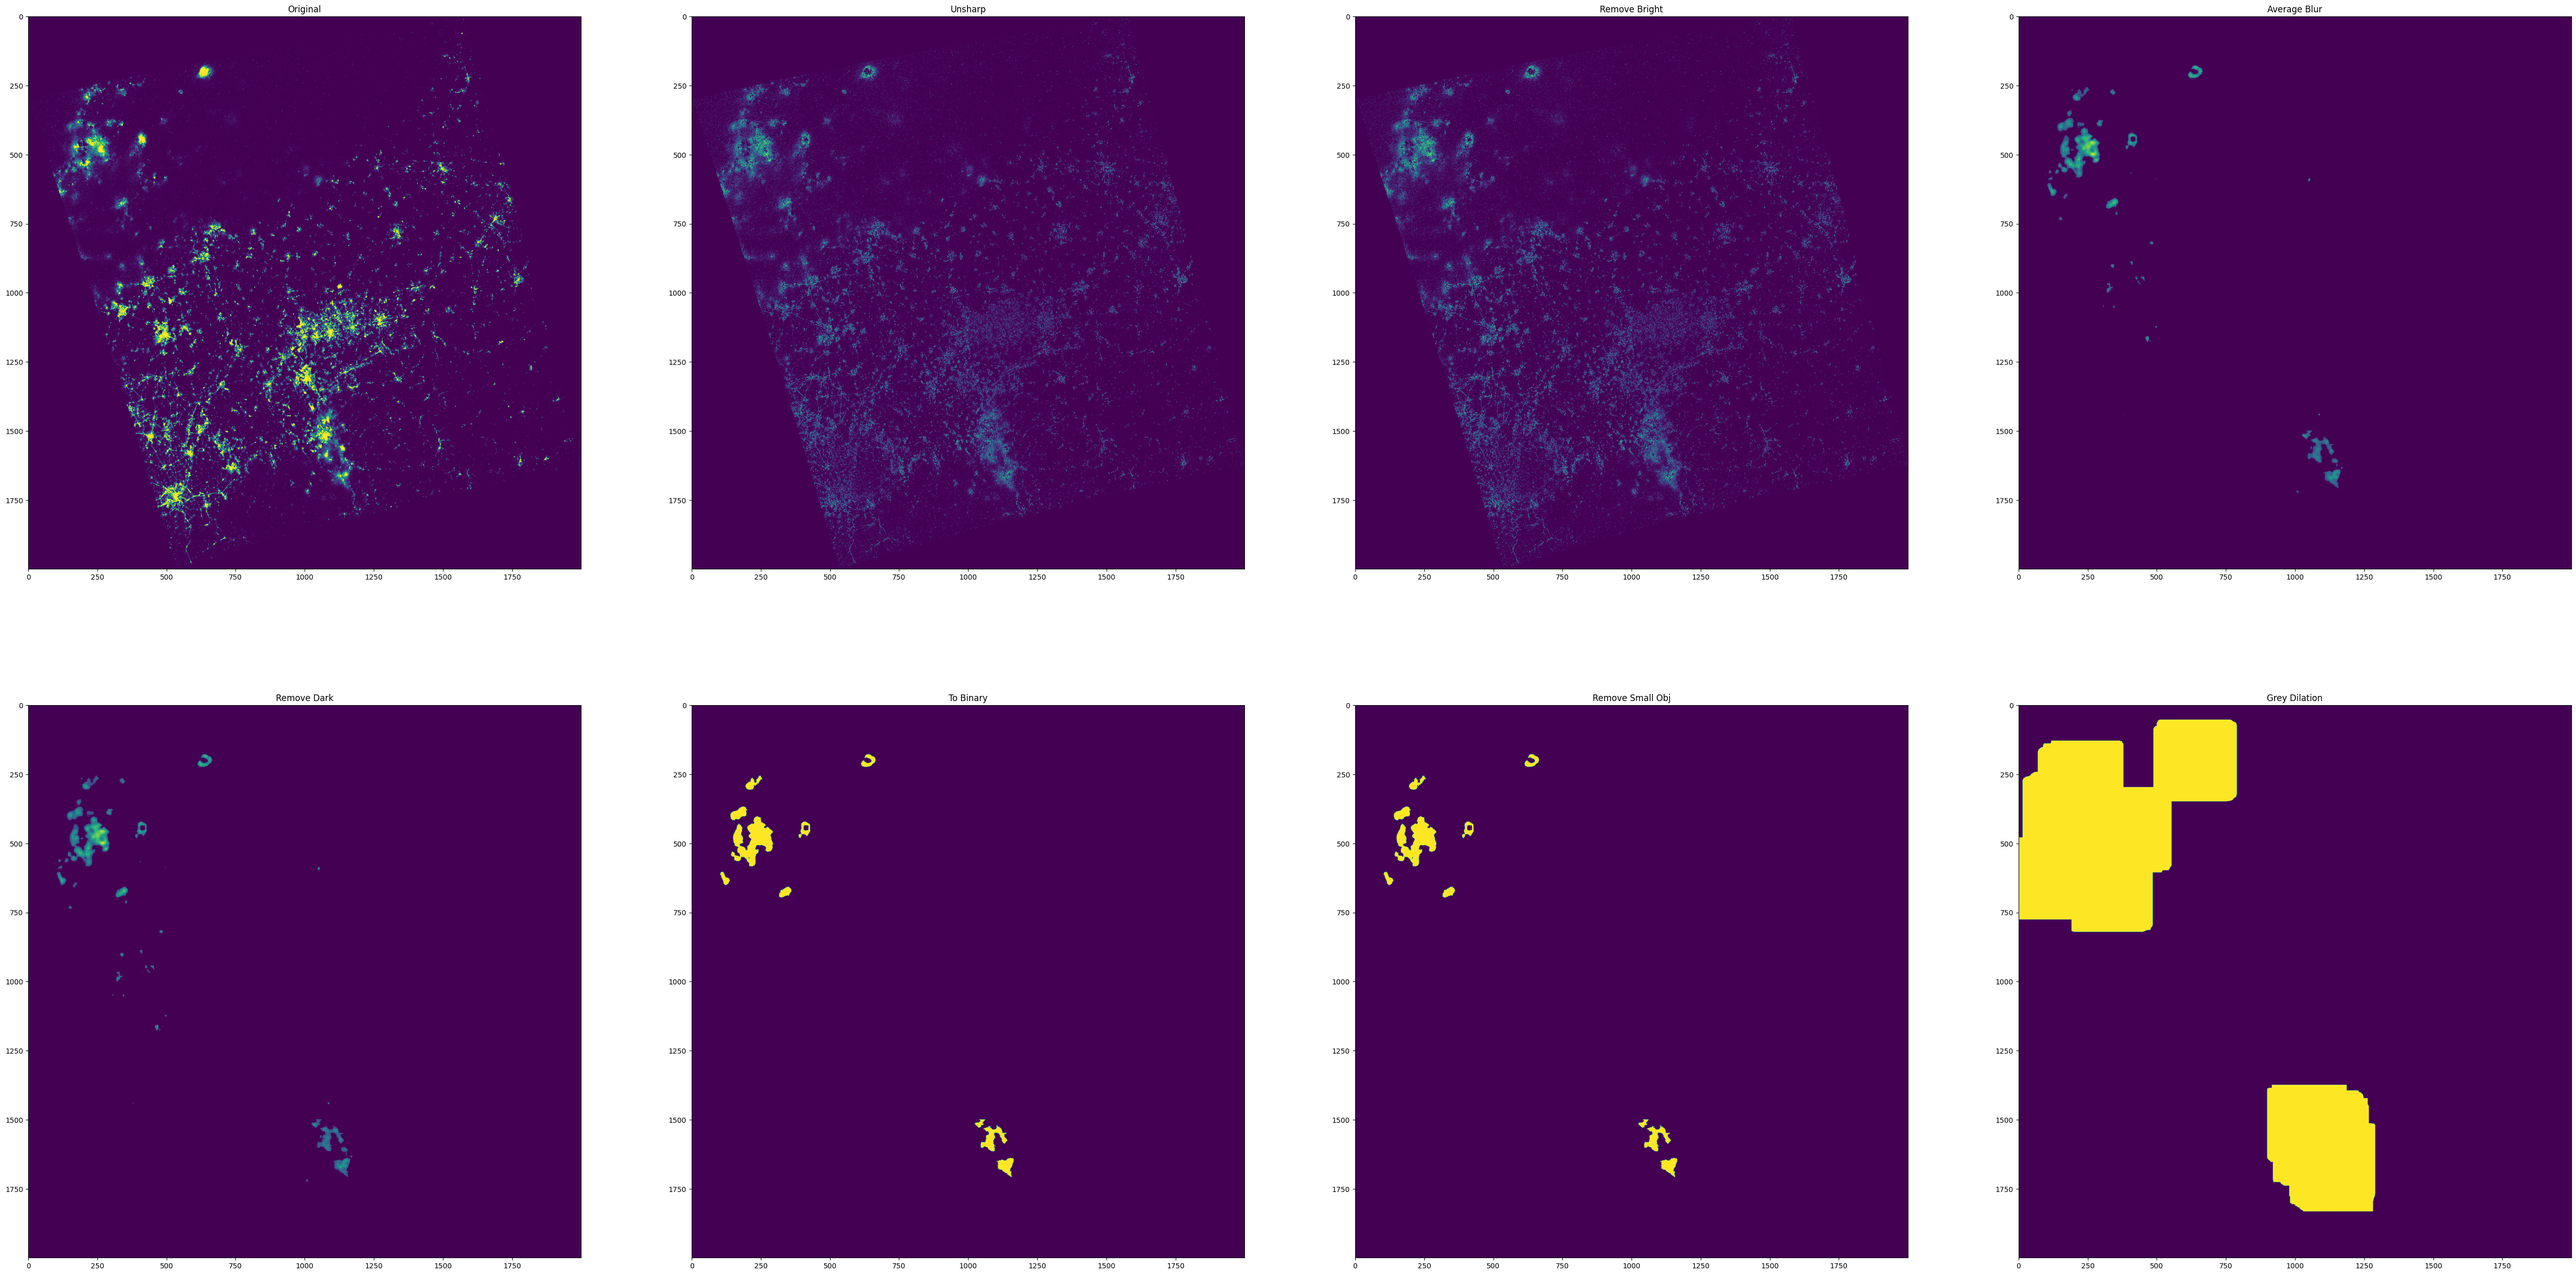
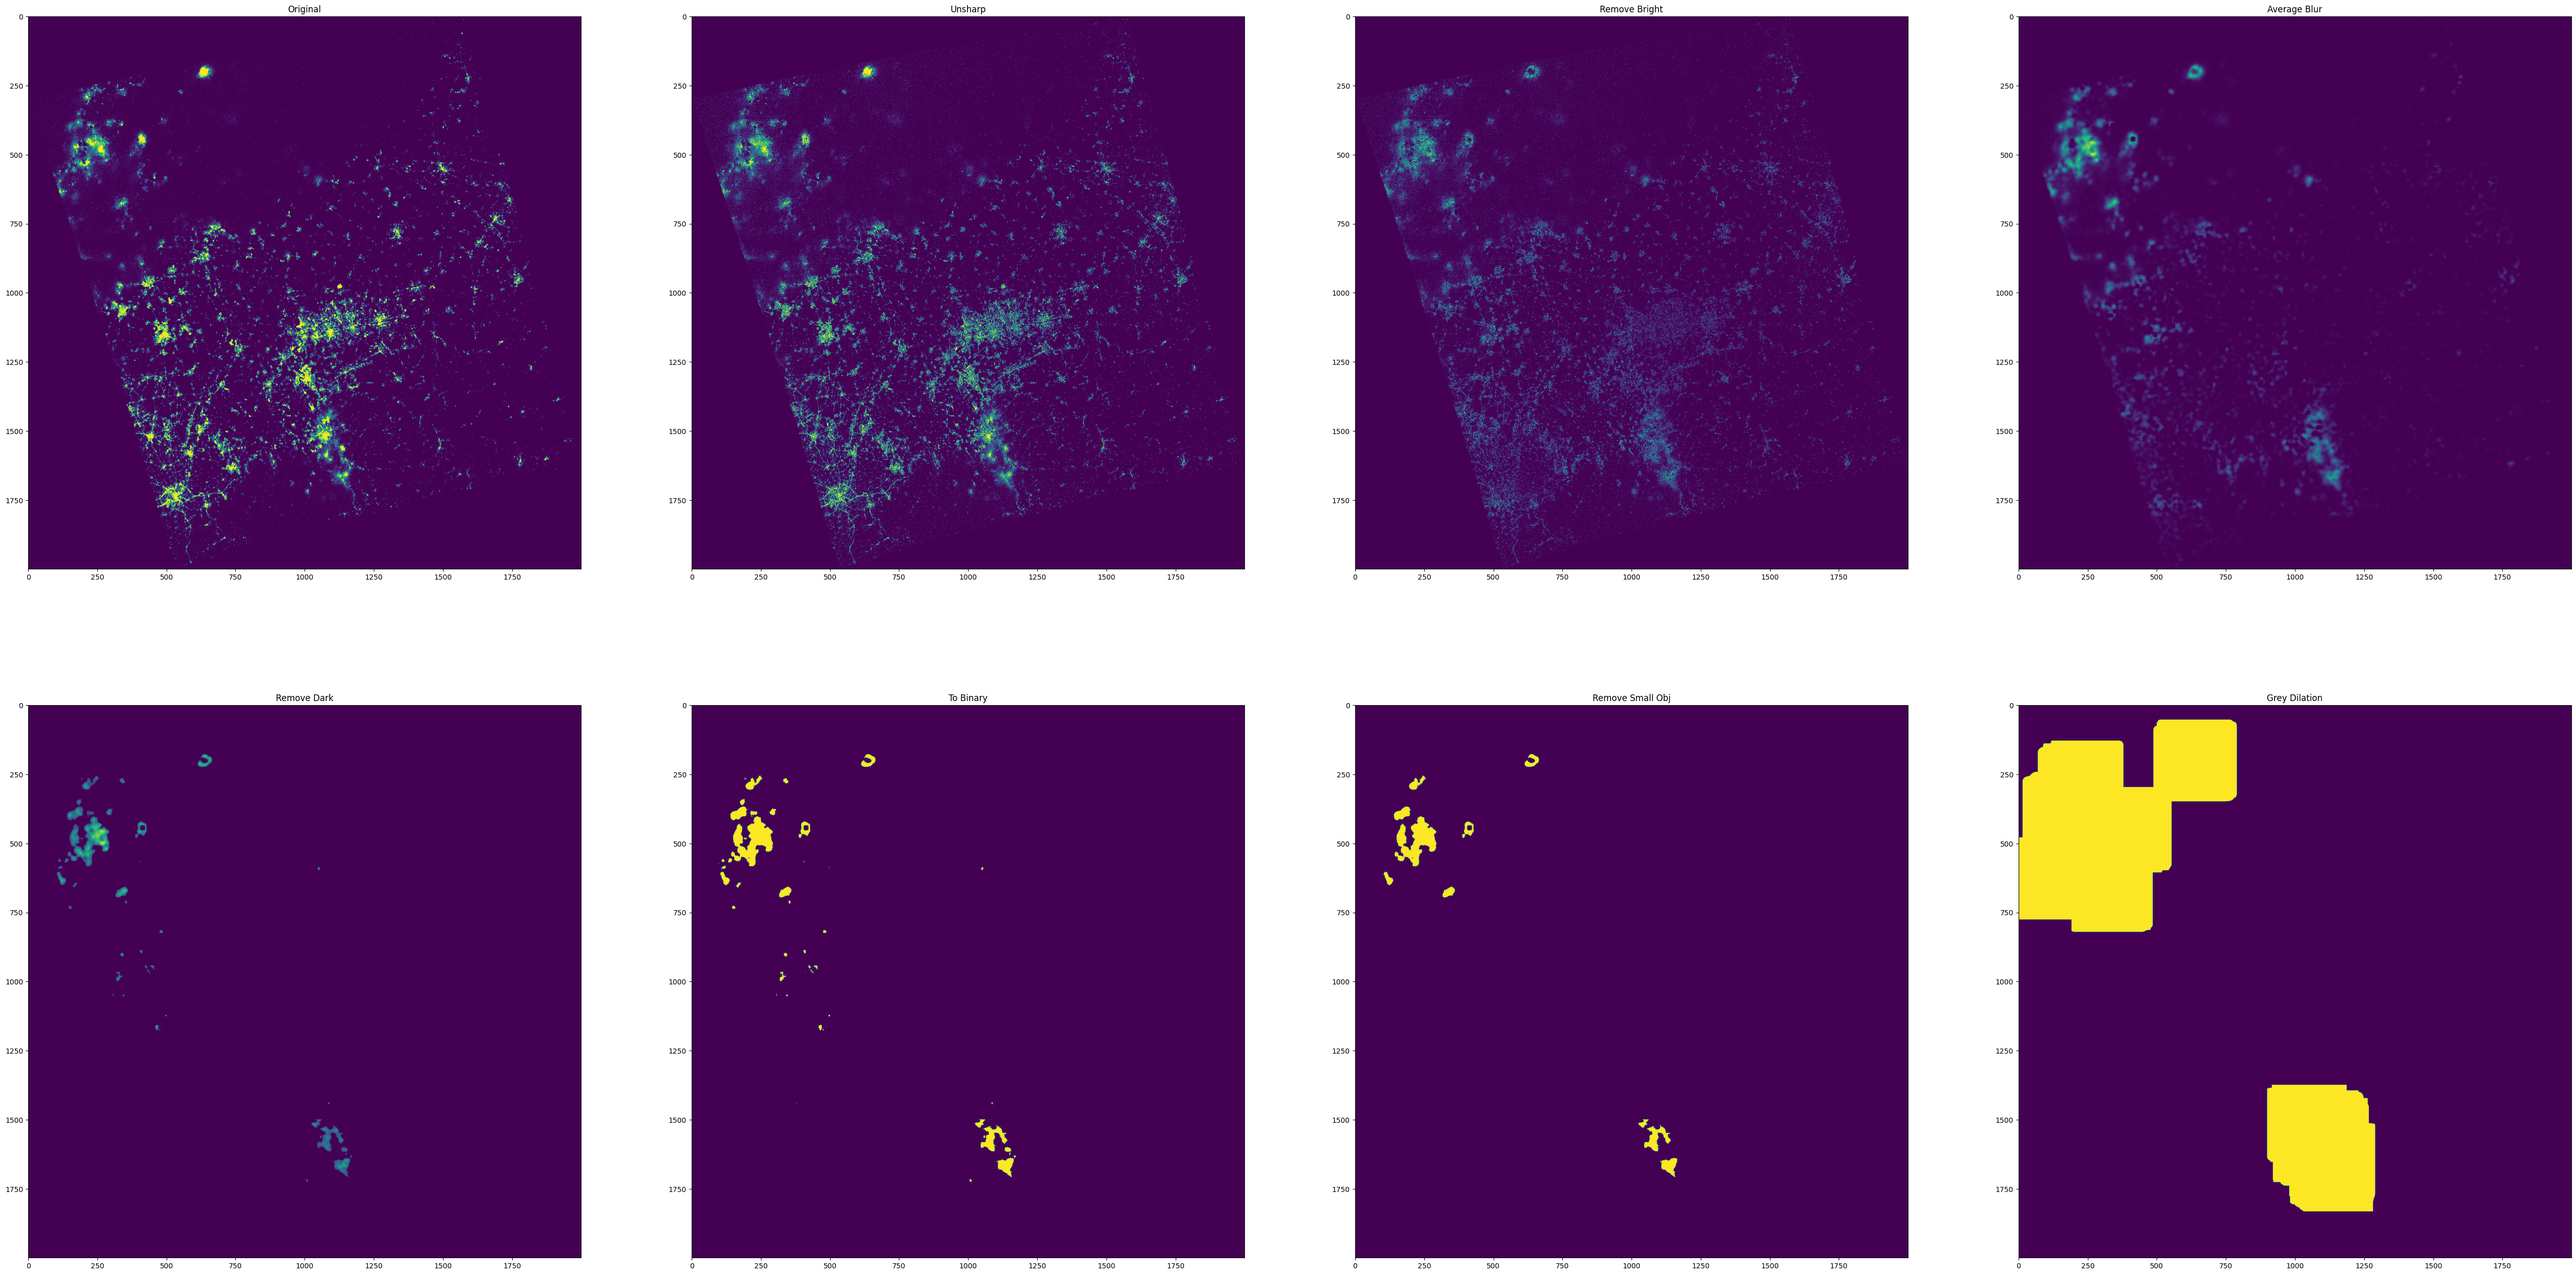
auxiliary file update, update flowchart

diff --git a/image_tester.py b/image_tester.py
@@ -1,35 +1,37 @@
 from PIL import Image
 import numpy as np
 import cv2
+import os
 
-from core import cloud_mask_generate_procedure_binary
+from core import cloud_mask_generate_procedure_binary, pmap, get_img
+from global_const import data_dir
 
 
-def save_img(img, name='out'):
+def save_img(img, name):
     Image.fromarray(img).convert('RGB').save('{}.png'.format(name))
 
 
-def main():
-    im = Image.open('ISS035-E-17200.JPG')
-    np_img = np.asarray(im.convert('L').getdata()).astype(np.float32)
-    w, h = im.size
-    np_img.shape = (h, w)
-    img = cv2.resize(np_img, (2000, 2000))
-    # img = deepcopy(np_img)
+def do_one(name, np_img, w=2000, h=2000):
+    if w != 2000 or h != 2000:
+        img = cv2.resize(np_img, (2000, 2000))
+    else:
+        img = np_img
 
     for f in cloud_mask_generate_procedure_binary:
         img = f(img)
 
-    img = cv2.resize(img, (w, h)).astype(np.uint8)
-    img = img.astype(np.uint8)
+    if w != 2000 or h != 2000:
+        img = cv2.resize(img, (w, h)).astype(np.uint8)
+    else:
+        img = img.astype(np.uint8)
 
-    save_img(img * 70)
+    save_img(img * 70, 'output/{}'.format(name))
 
     out_img_rgb = np.dstack((np.uint8(np.round(np_img)),
                              safe_mult(img, 70),
                              np.zeros((h, w), dtype=np.uint8)))
 
-    save_img(out_img_rgb, name='overlay')
+    save_img(out_img_rgb, 'overlay/{}'.format(name))
 
 
 def safe_mult(x, v):
@@ -39,5 +41,32 @@ def safe_mult(x, v):
     return x * v
 
 
+def wrapper(x):
+    do_one(x[0], x[1])
+
+
 if __name__ == '__main__':
-    main()
+    # name = 'ISS035-E-17200.JPG'
+    # im = Image.open(name)
+    # np_img = np.asarray(im.convert('L').getdata()).astype(np.float32)
+    # w, h = im.size
+    # np_img.shape = (h, w)
+    # do_one(name, np_img)
+
+    data_dirs = []
+    for dirname in os.listdir(data_dir):
+        if dirname.startswith('LuoJia1'):
+            data_dirs.append(dirname)
+
+    data_dirs.sort()
+
+    print(data_dirs)
+
+    images = pmap(get_img, data_dirs)
+
+    pmap(wrapper, zip(data_dirs, images))
+
+    # for (name, im) in zip(data_dirs, images):
+    #     do_one(name, im)
+
+    img = get_img('LuoJia1-01_LR201809083317_20180907212040_HDR_0033')

diff --git a/flowchart_gen.py b/flowchart_gen.py
@@ -23,21 +23,21 @@ def show_imgs(imgs, name='flowchart'):
     for i in range(1, columns * rows + 1):
         ax = fig.add_subplot(rows, columns, i)
         ax.title.set_text(imgs[idx][0])
-        plt.imshow(Image.fromarray(imgs[idx][1] * 5).convert('L'))
+        plt.imshow(Image.fromarray(imgs[idx][1]).convert('L'))
         idx += 1
     plt.savefig('{}.png'.format(name), bbox_inches='tight')
 
 
 def main():
     img = get_img('LuoJia1-01_LR201809083317_20180907212040_HDR_0033')
-    imgs = [('Original', img)]
+    imgs = [('Original', img * 5)]
     imgdiffs = [('Original', np.zeros((2000, 2000)))]
     for f in cloud_mask_generate_procedure_binary:
         img2 = deepcopy(img)
         img = f(img)
         title = f.__name__.replace('_', ' ').title()
-        imgs.append((title, img))
-        imgdiffs.append((title, img2 - img))
+        imgs.append((title, img * 5))
+        imgdiffs.append((title, (img2 - img) * 5))
 
     show_imgs(imgs)
     show_imgs(imgdiffs, name='diff')
